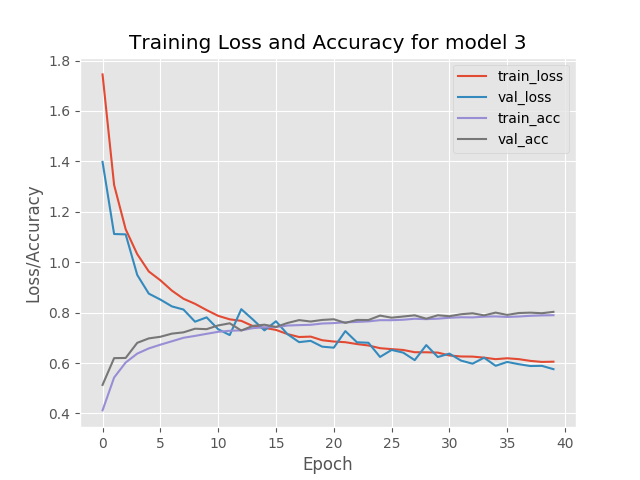
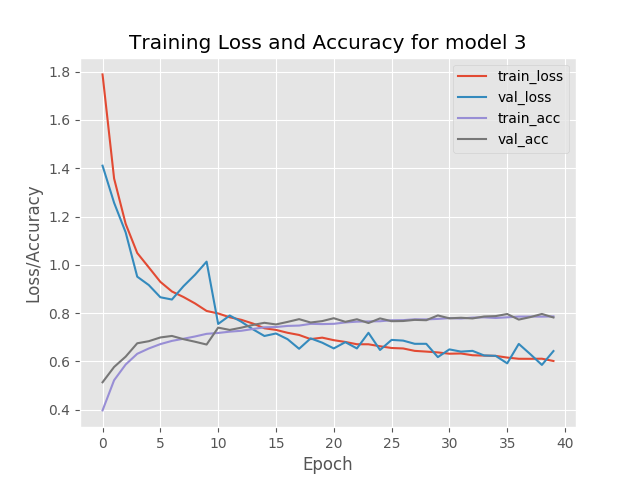
Imagenet utils functions.@

diff --git a/mx_imagenet_alexnet/build_imagenet.py b/mx_imagenet_alexnet/build_imagenet.py
@@ -1,0 +1,60 @@
+import json
+
+import cv2
+import numpy as np
+import progressbar
+from sklearn.model_selection import train_test_split
+
+from mx_imagenet_alexnet.config import imagenet_alexnet_config as config
+from utils.imagenethelper import ImageNetHelper
+
+print('[INFO] Loading image paths...')
+imagenet_helper = ImageNetHelper(config)
+train_paths, train_labels = imagenet_helper.build_training_set()
+val_paths, val_labels = imagenet_helper.build_validation_set()
+
+print('[INFO] Constructing splits...')
+split = train_test_split(train_paths,
+                         train_labels,
+                         test_size=config.NUM_TEST_IMAGES,
+                         stratify=train_labels,
+                         random_state=42)
+train_paths, test_paths, train_labels, test_labels = split
+
+datasets = [
+    ('train', train_paths, train_labels, config.TRAIN_MX_LIST),
+    ('val', val_paths, val_labels, config.VAL_MX_LIST),
+    ('test', test_paths, test_labels, config.TEST_MX_LIST)
+]
+
+R, G, B = [], [], []
+
+for dataset_type, paths, labels, output_path in datasets:
+    print(f'[INFO] Building {output_path}...')
+    with open(output_path, 'w') as f:
+        widgets = ['Building List: ', progressbar.Percentage(), ' ', progressbar.Bar(), ' ', progressbar.ETA()]
+        progress_bar = progressbar.ProgressBar(maxval=len(paths)).start()
+
+        for index, (path, label) in enumerate(zip(paths, labels)):
+            row = '\t'.join([str(index), str(label), path])
+            f.write(f'{row}\n')
+
+            if dataset_type == 'train':
+                image = cv2.imread(path)
+                b, g, r = cv2.mean(image)[:3]
+
+                R.append(r)
+                G.append(g)
+                B.append(b)
+
+            progress_bar.update(index)
+
+        progress_bar.finish()
+
+print('[INFO} Serializing means...')
+D = {'R': np.mean(R),
+     'G': np.mean(G),
+     'B': np.mean(B)}
+
+with open(config.DATASET_MEAN, 'w') as f:
+    f.write(json.dump(D, f))

diff --git a/utils/imagenethelper.py b/utils/imagenethelper.py
@@ -1,0 +1,61 @@
+import os
+
+import numpy as np
+
+
+class ImageNetHelper(object):
+    def __init__(self, config):
+        self.config = config
+
+        self.label_mappings = self.build_class_labels()
+
+    def build_class_labels(self):
+        with open(self.config.WORD_IDS, 'r') as f:
+            rows = f.read().strip().split('\n')
+            label_mappings = {}
+
+            for row in rows:
+                word_id, label, human_readable_label = row.split(' ')
+                label_mappings[word_id] = int(label) - 1
+
+        return label_mappings
+
+    def build_training_set(self):
+        with open(self.config.TRAIN_LIST, 'r') as f:
+            rows = f.read().strip().split('\n')
+
+            paths = []
+            labels = []
+
+            for row in rows:
+                partial_path, image_num = row.strip().split(' ')
+
+                path = os.path.sep.join([self.config.IMAGES_PATH, 'train', f'{partial_path}.JPEG'])
+                word_id = partial_path.split('/')[0]
+                label = self.label_mappings[word_id]
+
+                paths.append(path)
+                labels.append(label)
+
+        return np.array(paths), np.array(labels)
+
+    def build_validation_set(self):
+        paths = []
+        labels = []
+
+        with open(self.config.VAL_LIST, 'r') as f:
+            val_file_names = f.read()
+            val_file_names = val_file_names.strip().split('\n')
+
+        with open(self.config.VAL_LABELS, 'r') as f:
+            val_labels = f.read()
+            val_labels = val_labels.strip().split('\n')
+
+        for row, label in zip(val_file_names, val_labels):
+            partial_path, image_num = row.strip().split(' ')
+
+            path = os.path.sep.join([self.config.IMAGES_PATH, 'val', f'{partial_path}.JPEG'])
+            paths.append(path)
+            labels.append(int(label) - 1)
+
+        return np.array(paths), np.array(labels)

diff --git a/dogs_vs_cats/train_alexnet.py b/dogs_vs_cats/train_alexnet.py
@@ -27,11 +27,11 @@ patch_preprocessor = PatchPreprocessor(227, 227)
 mean_preprocessor = MeanPreprocessor(means['R'], means['G'], means['B'])
 image_to_array_preprocessor = ImageToArrayPreprocessor()
 
-train_generator = HDF5DatasetGenerator(config.TRAIN_HDF5, 32, augmenter=augmenter,
+train_generator = HDF5DatasetGenerator(config.TRAIN_HDF5, 128, augmenter=augmenter,
                                        preprocessors=[patch_preprocessor, mean_preprocessor,
                                                       image_to_array_preprocessor], classes=2)
-validation_generator = HDF5DatasetGenerator(config.VAL_HDF5, 32, preprocessors=[simple_preprocessor, mean_preprocessor,
-                                                                                image_to_array_preprocessor],
+validation_generator = HDF5DatasetGenerator(config.VAL_HDF5, 128, preprocessors=[simple_preprocessor, mean_preprocessor,
+                                                                                 image_to_array_preprocessor],
                                             classes=2)
 
 print('[INFO] Compiling model...')
@@ -43,9 +43,9 @@ path = os.path.sep.join([config.OUTPUT_PATH, f'{os.getpid()}.png'])
 callbacks = [TrainingMonitor(path)]
 
 model.fit_generator(train_generator.generator(),
-                    steps_per_epoch=train_generator.num_images // 32,
+                    steps_per_epoch=train_generator.num_images // 128,
                     validation_data=validation_generator.generator(),
-                    validation_steps=validation_generator.num_images // 32,
+                    validation_steps=validation_generator.num_images // 128,
                     epochs=75,
                     max_queue_size=5,
                     callbacks=callbacks,

diff --git a/mx_imagenet_alexnet/config/imagenet_alexnet_config.py b/mx_imagenet_alexnet/config/imagenet_alexnet_config.py
@@ -1,0 +1,31 @@
+from os import path
+
+BASE_PATH = '/home/jesus/Data/ImageNet'
+
+IMAGES_PATH = path.sep.join([BASE_PATH, 'images'])
+IMAGE_SETS_PATHS = path.sep.join([BASE_PATH, 'image_sets'])
+DEVKIT_PATH = path.sep.join([BASE_PATH, 'devkit', 'ILSVRC2015', 'devkit', 'data'])
+WORD_IDS = path.sep.join([DEVKIT_PATH, 'map_clsloc.txt'])
+
+TRAIN_LIST = path.sep.join([IMAGE_SETS_PATHS, 'train.txt'])
+VAL_LIST = path.sep.join([IMAGE_SETS_PATHS, 'val.txt'])
+VAL_LABELS = path.sep.join([DEVKIT_PATH, 'ILSVRC2015_clsloc_validation_ground_truth.txt'])
+
+NUM_CLASSES = 1000
+NUM_TEST_IMAGES = 50 * NUM_CLASSES
+
+MX_OUTPUT = '/home/jesus/Data/ImageNet'
+TRAIN_MX_LIST = path.sep.join([MX_OUTPUT, 'lists', 'train.lst'])
+VAL_MX_LIST = path.sep.join([MX_OUTPUT, 'lists', 'val.lst'])
+TEST_MX_LIST = path.sep.join([MX_OUTPUT, 'lists', 'test.lst'])
+
+TRAIN_MX_REC = path.sep.join([MX_OUTPUT, 'rec', 'train.rec'])
+VAL_MX_REC = path.sep.join([MX_OUTPUT, 'rec', 'val.rec'])
+TEST_MX_REC = path.sep.join([MX_OUTPUT, 'rec', 'test.rec'])
+
+# DATASET_MEAN = path.sep.join([BASE_PATH, 'output', 'imagenet_mean.json'])  # TODO Check this!
+DATASET_MEAN = './output/imagenet_mean.json'
+
+#### FROM EXPERIMENT TO EXPERIMENT, THE VARIABLES BELOW ARE THE ONLY WE NEED TO CHANGE ####
+BATCH_SIZE = 64
+NUM_DEVICES = 1

diff --git a/deepergooglenet/config/tiny_imagenet_config.py b/deepergooglenet/config/tiny_imagenet_config.py
@@ -18,6 +18,6 @@ TEST_HDF5 = '../assets/datasets/tiny-imagenet-200/hdf5/test.hdf5'
 DATASET_MEAN = 'output/tiny-imagenet-200-mean.json'
 
 OUTPUT_PATH = 'output'
-MODEL_PATH = path.sep.join([OUTPUT_PATH, 'checkpoints/epoch_70.hdf5'])
+MODEL_PATH = path.sep.join([OUTPUT_PATH, 'checkpoints/Epoch_45.hdf5'])
 FIGURE_PATH = path.sep.join([OUTPUT_PATH, 'deepergooglenet_tinyimagenet.png'])
 JSON_PATH = path.sep.join([OUTPUT_PATH, 'deepergooglenet_tinyimagenet.json'])

diff --git a/dogs_vs_cats/build_dogs_vs_cats.py b/dogs_vs_cats/build_dogs_vs_cats.py
@@ -38,7 +38,7 @@ G = list()
 B = list()
 
 for d_type, paths, labels, output_path in datasets:
-    print(f'[INFO] Bulding {output_path}...')
+    print(f'[INFO] Building {output_path}...')
     writer = HDF5DatasetWriter((len(paths), 256, 256, 3), output_path)
 
     widgets = ['Building Dataset: ', progressbar.Percentage(), ' ', progressbar.Bar(), ' ', progressbar.ETA()]
